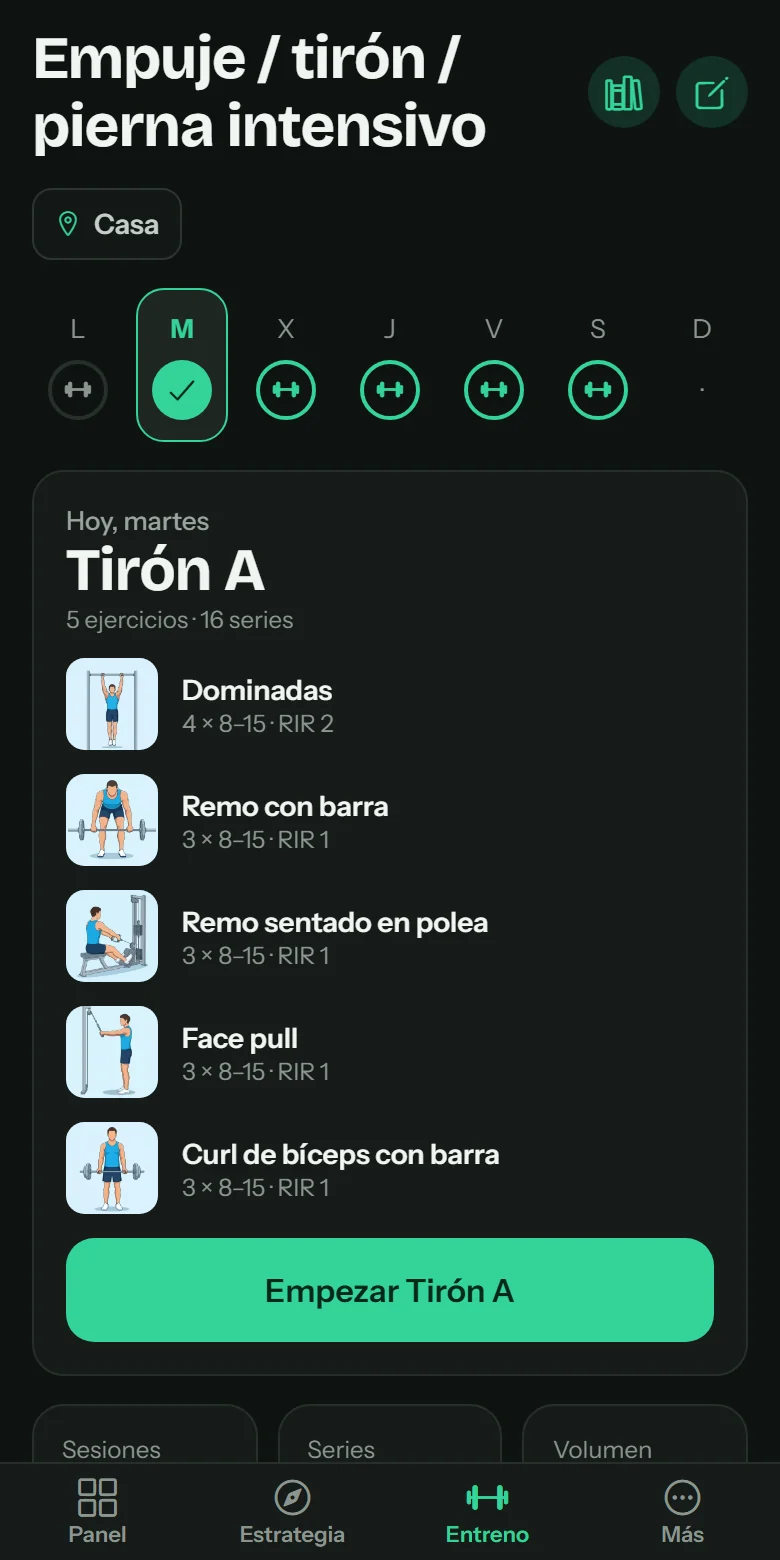
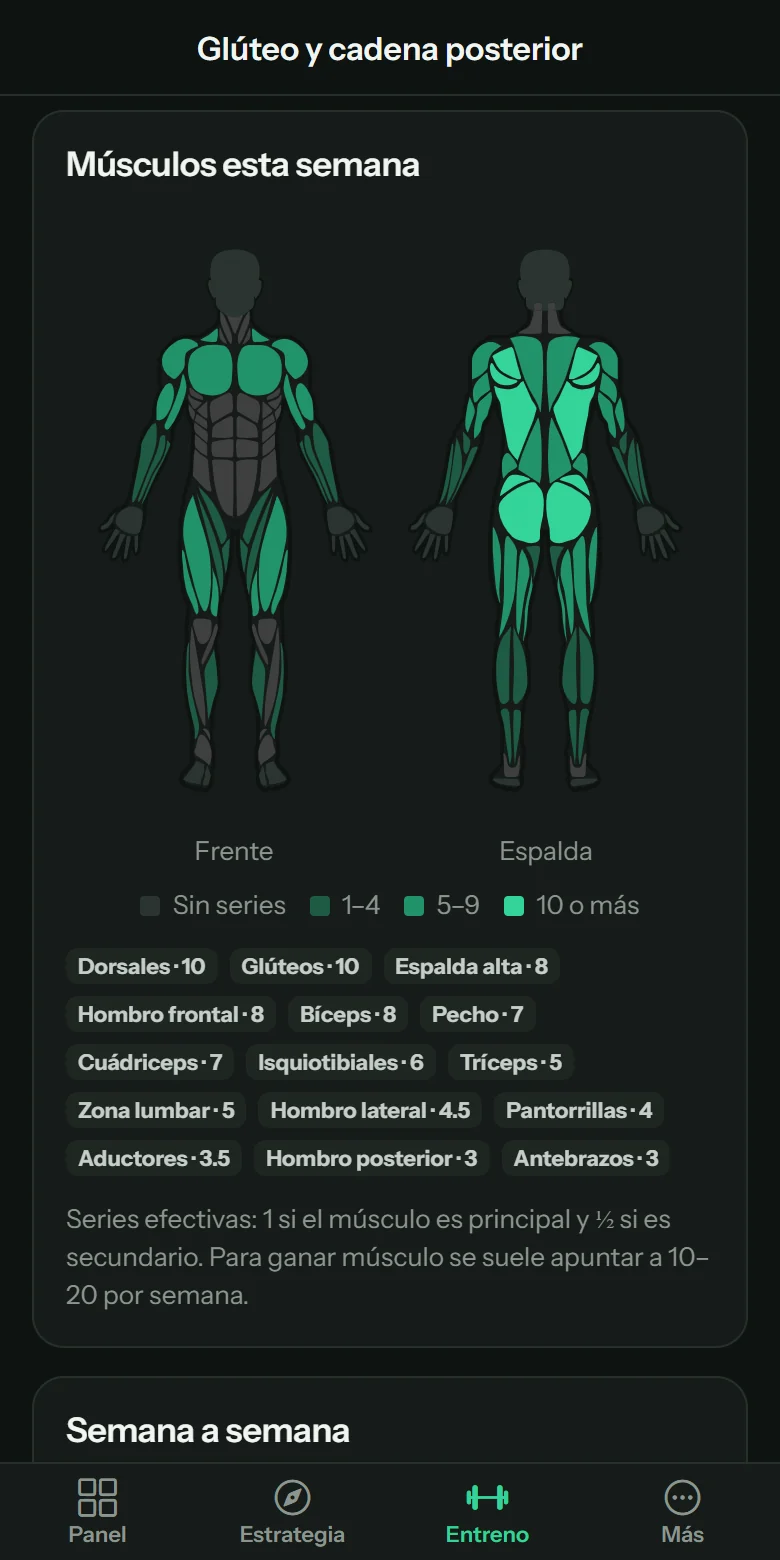
Sitio y README: cuatro pantallas (Panel con gráficos, Entreno con la silueta, Estrategia y Más)

diff --git a/web/src/App.tsx b/web/src/App.tsx
@@ -283,10 +283,8 @@ function TrendChart() {
    Es un teléfono genérico dibujado con CSS (ver index.css), sin marca. */
 
 const pantallas = [
-  { id: "hoy", nombre: "Panel", texto: "Lo que te queda del día, tus últimos días y tu progreso." },
-  { id: "calendario", nombre: "Calendario", texto: "Cada día se llena con sus seis objetivos: toca uno y mira qué faltó." },
-  { id: "dieta", nombre: "Dieta", texto: "Tu dieta por día de la semana, con la comida de antes y después de entrenar." },
-  { id: "entreno", nombre: "Entreno", texto: "Tu semana de entreno y los músculos que trabajaste." },
+  { id: "hoy", nombre: "Panel", texto: "Tu progreso en gráficos: gasto, tendencia, balance, meta, macros y sueño." },
+  { id: "entreno", nombre: "Entreno", texto: "Los músculos que trabajaste esta semana, sobre la silueta." },
   { id: "analisis", nombre: "Estrategia", texto: "Tu plan, la revisión cada 3 o 7 días y el progreso hacia tu meta." },
   { id: "mas", nombre: "Más", texto: "Tu plan, tus datos de hoy y los ajustes, en un solo lugar." },
 ]

diff --git a/README.md b/README.md
@@ -22,13 +22,9 @@ cada pocos días, te propone un ajuste pequeño con su porqué. Sin cuentas, sin
 
 <table>
   <tr>
-    <td align="center"><img src="web/public/pantallas/hoy.webp" alt="Panel del día" width="200" /><br /><sub><b>Panel</b><br />Lo que te queda y tus últimos días</sub></td>
-    <td align="center"><img src="web/public/pantallas/calendario.webp" alt="Calendario de objetivos" width="200" /><br /><sub><b>Calendario</b><br />Seis objetivos por día, de un vistazo</sub></td>
+    <td align="center"><img src="web/public/pantallas/hoy.webp" alt="Panel con los gráficos de progreso" width="200" /><br /><sub><b>Panel</b><br />Tu progreso en gráficos</sub></td>
+    <td align="center"><img src="web/public/pantallas/entreno.webp" alt="Entreno con la silueta muscular" width="200" /><br /><sub><b>Entreno</b><br />Los músculos de tu semana</sub></td>
     <td align="center"><img src="web/public/pantallas/analisis.webp" alt="Estrategia" width="200" /><br /><sub><b>Estrategia</b><br />Tu plan y la revisión cada 3 o 7 días</sub></td>
-  </tr>
-  <tr>
-    <td align="center"><img src="web/public/pantallas/entreno.webp" alt="Entreno" width="200" /><br /><sub><b>Entreno</b><br />Tu semana y los músculos trabajados</sub></td>
-    <td align="center"><img src="web/public/pantallas/dieta.webp" alt="Dieta" width="200" /><br /><sub><b>Dieta</b><br />Tu dieta por día, con horario</sub></td>
     <td align="center"><img src="web/public/pantallas/mas.webp" alt="Más" width="200" /><br /><sub><b>Más</b><br />Tu plan, tus datos y los ajustes</sub></td>
   </tr>
 </table>

diff --git a/README.en.md b/README.en.md
@@ -22,13 +22,9 @@ every few days, suggests a small adjustment and explains why. No accounts, no se
 
 <table>
   <tr>
-    <td align="center"><img src="web/public/pantallas/hoy.webp" alt="Dashboard" width="200" /><br /><sub><b>Dashboard</b><br />What's left today and your last days</sub></td>
-    <td align="center"><img src="web/public/pantallas/calendario.webp" alt="Goal calendar" width="200" /><br /><sub><b>Calendar</b><br />Six daily goals at a glance</sub></td>
+    <td align="center"><img src="web/public/pantallas/hoy.webp" alt="Dashboard with progress charts" width="200" /><br /><sub><b>Dashboard</b><br />Your progress in charts</sub></td>
+    <td align="center"><img src="web/public/pantallas/entreno.webp" alt="Training with the muscle map" width="200" /><br /><sub><b>Training</b><br />The muscles of your week</sub></td>
     <td align="center"><img src="web/public/pantallas/analisis.webp" alt="Strategy" width="200" /><br /><sub><b>Strategy</b><br />Your plan and the 3- or 7-day review</sub></td>
-  </tr>
-  <tr>
-    <td align="center"><img src="web/public/pantallas/entreno.webp" alt="Training" width="200" /><br /><sub><b>Training</b><br />Your week and the muscles you worked</sub></td>
-    <td align="center"><img src="web/public/pantallas/dieta.webp" alt="Diet" width="200" /><br /><sub><b>Diet</b><br />Your diet by day, on a schedule</sub></td>
     <td align="center"><img src="web/public/pantallas/mas.webp" alt="More" width="200" /><br /><sub><b>More</b><br />Your plan, your data and settings</sub></td>
   </tr>
 </table>
